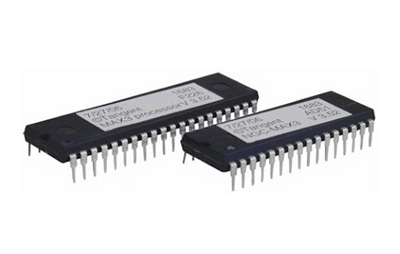
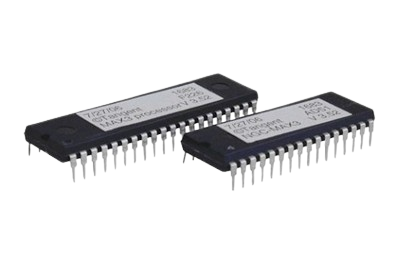
removed background on images

diff --git a/index.html b/index.html
@@ -11,21 +11,21 @@
     <div class="page-container" onclick="this.classList.toggle('flipped')">
         <div class="page-flip">
             <div class="page-front">
+
+                <section class="motherb-page">
+                    <h2>Mother-Board Menu</h2>
+                    <p>This is the back-end of your computer Operating System</p>
+                </section>
                 <section class="gallery">
                     <img src="Assets/cpu.png" alt="Pic 1" onclick="showDescription('This is picture 1')">
-                    <img src="Assets/RAM.jpg" alt="Pic 2" onclick="showDescription('This is picture 2')">
+                    <img src="Assets/RAM.png" alt="Pic 2" onclick="showDescription('This is picture 2')">
                     <img src="Assets/ROM.png" alt="Pic 3" onclick="showDescription('This is picture 3')">
-
-                </section>
-                <div id="modal" class="modal">
-                    <div class="modal-content">
-                        <span class="close" onclick="closeModal()">times;</span>
-                        <p id="modal-text"></p>
-                    </div>
-                </div>
-                
-            <h3>Welcome to the Front Page and content goes here</h3>
+                     <img src="Assets/storage.png" alt="Pic 4" onclick="showDescription('This is picture 4')">
+                </section>  
+           
             </div>
+             <!--This break between front page and back page-->
+             
             <div class="page-back">
 
                 <section class="bios">

diff --git a/styles.css b/styles.css
@@ -50,18 +50,18 @@ body, html {
   width: 100%;
   text-align: center;
   margin: 0; /* Reset default margin */
-  
+
   padding: 10px;
 }
 
-.gallery {
+.page-front .gallery {
   display: grid;
   grid-template-columns: repeat(auto-fit, minmax(200px, 1fr));
   gap: 20px;
   padding: 20px;
 }
 
-.gallery img {
+.gallery .gallery img {
   width: 100%;
   height: auto;
   border-radius: 8px;
@@ -81,7 +81,16 @@ td {
   vertical-align: middle; /* Align content vertically */
 }
 
+/* header for both pages */
 .bios
+{
+    position: fixed;
+    top: 0;
+    width: 100%;
+    text-align: center;
+}
+
+.motherb-page
 {
     position: fixed;
     top: 0;
